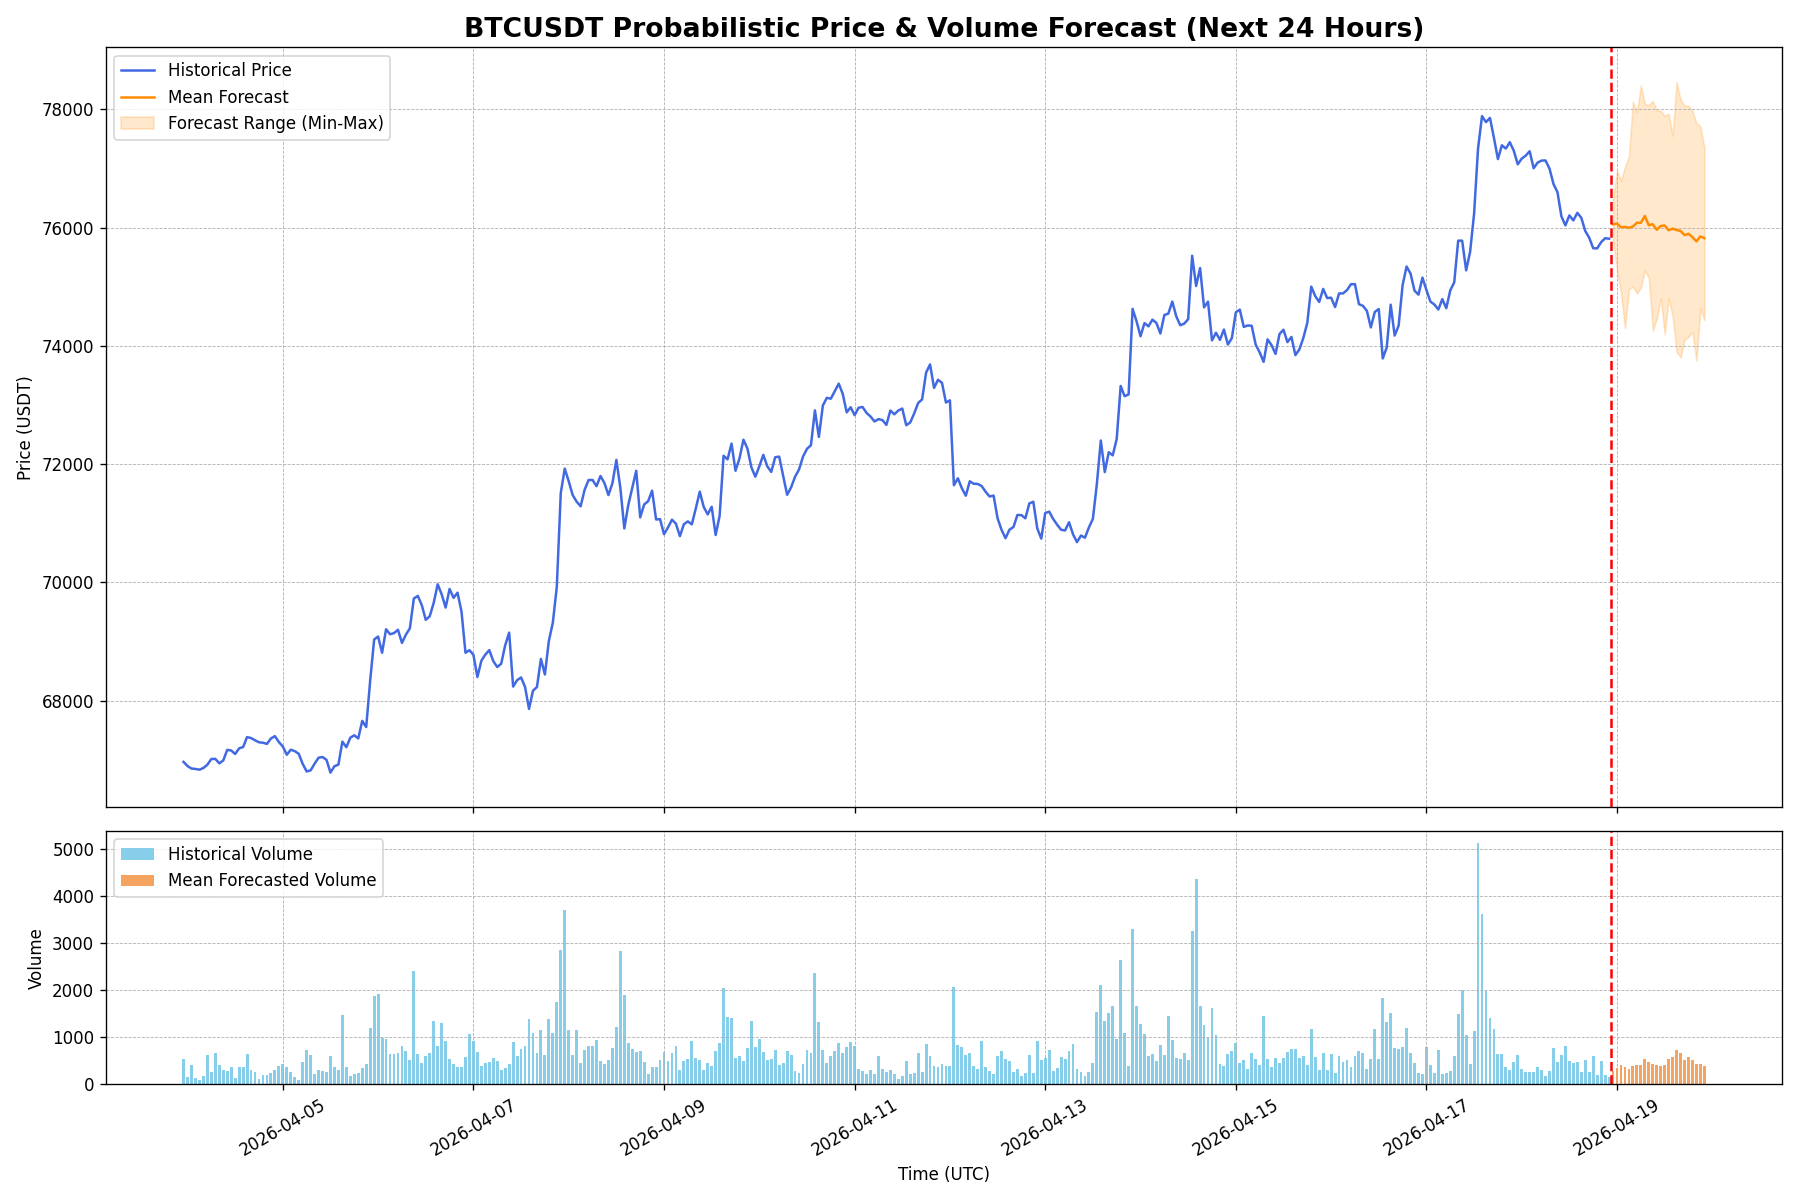
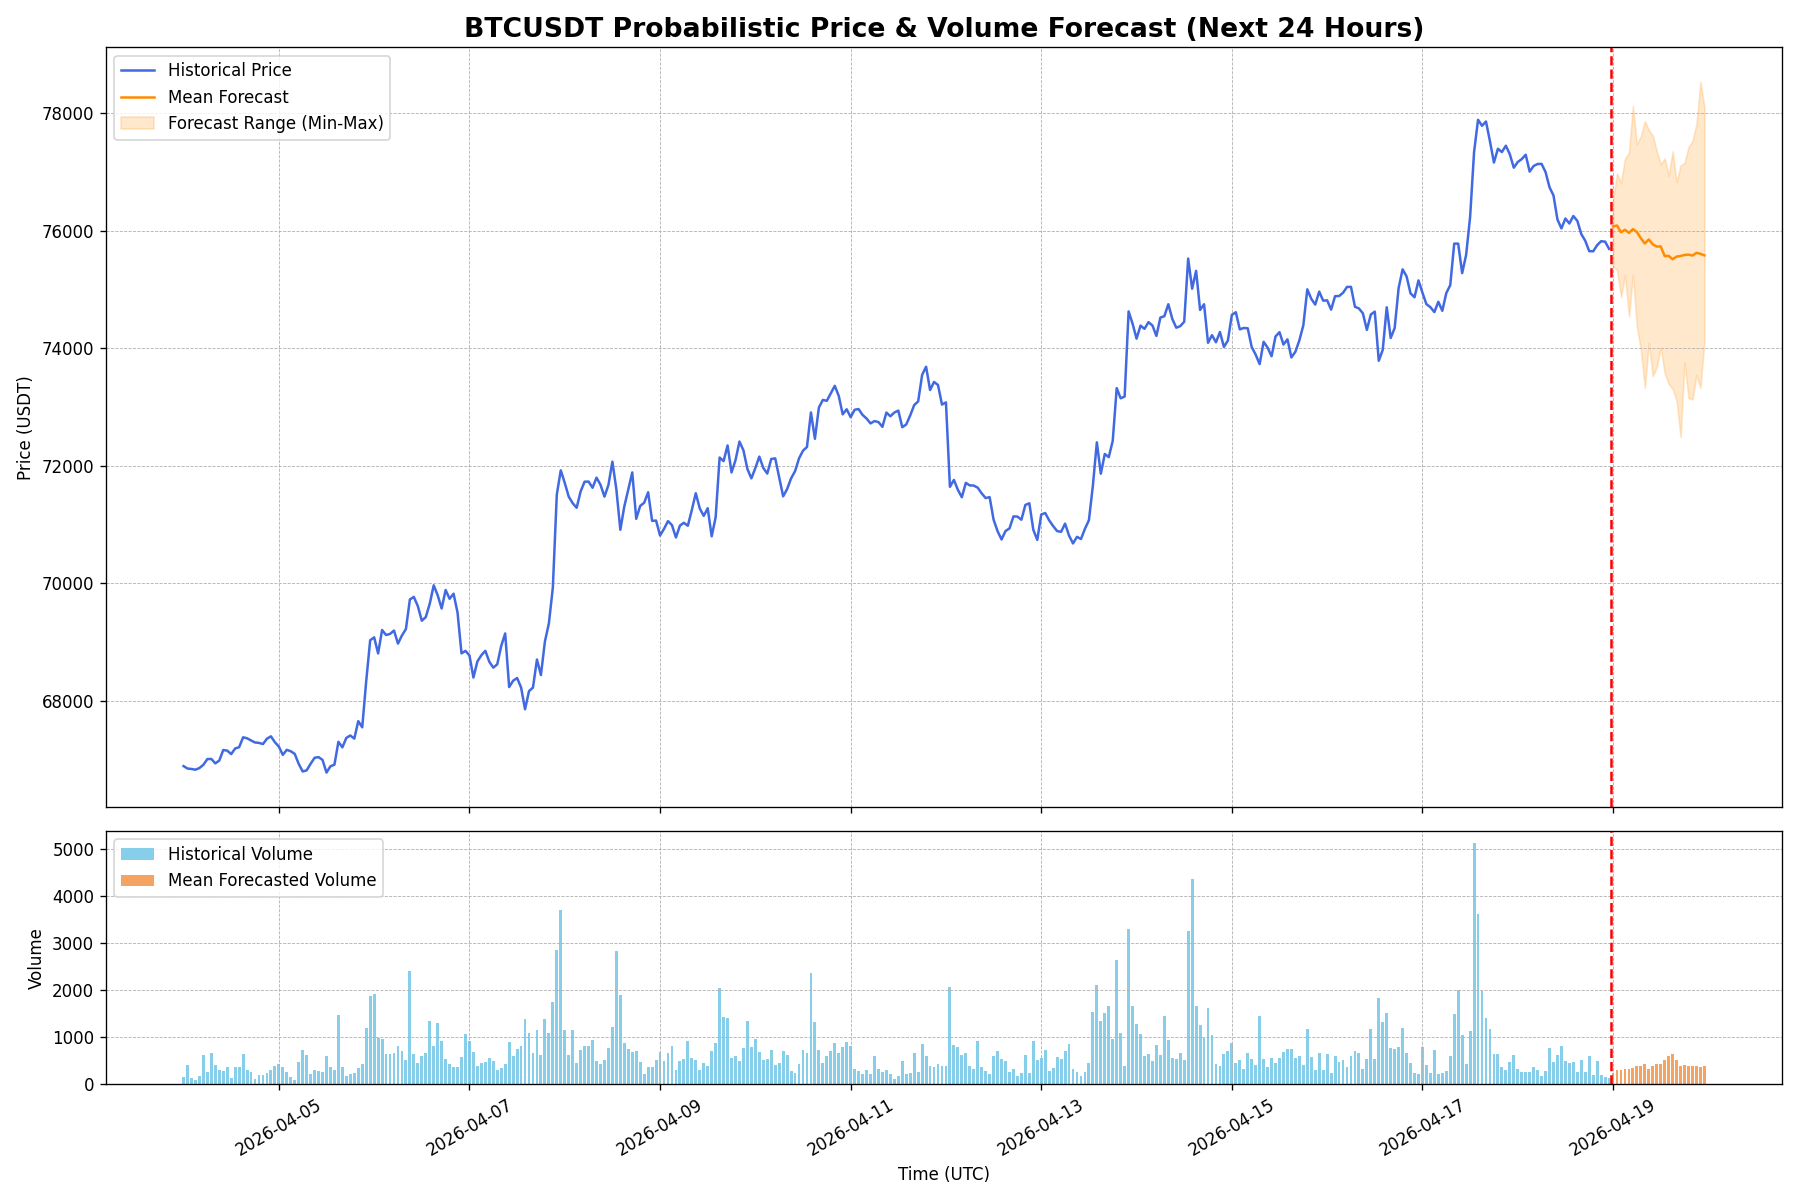
Auto-update forecast for 2026-04-19 00:00 UTC

diff --git a/index.html b/index.html
@@ -22,14 +22,14 @@
         <section id="live-dashboard">
             <h2>Live BTC/USDT Forecast Dashboard</h2>
             <div class="metadata">
-                <span>Last Updated (UTC): <strong id="update-time">2026-04-18 23:00:25</strong></span>
+                <span>Last Updated (UTC): <strong id="update-time">2026-04-19 00:00:25</strong></span>
                 <span>Data Source: Binance | Interval: 1-Hour</span>
             </div>
 
             <div class="metrics-container">
                 <div class="metric-card">
                     <h3>Upside Probability (Next 24h)</h3>
-                    <p class="metric-value" id="upside-prob">46.7%</p>
+                    <p class="metric-value" id="upside-prob">40.0%</p>
                     <div class="metric-desc">The model's confidence that the price in 24 hours will be higher than the last known price.</div>
                 </div>
                 <div class="metric-card">
